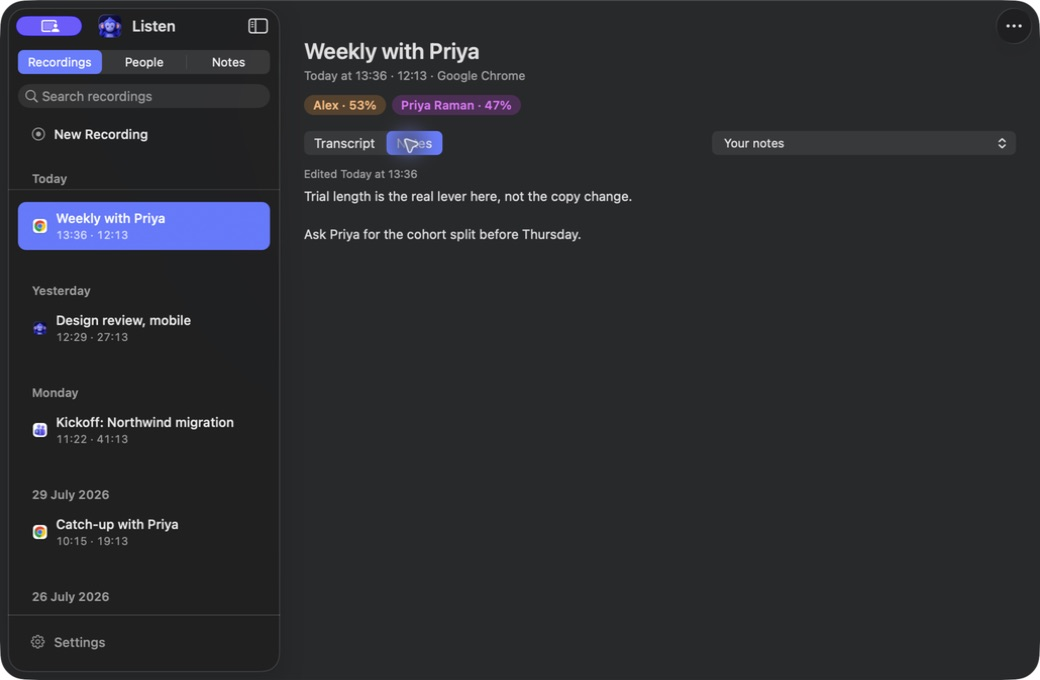
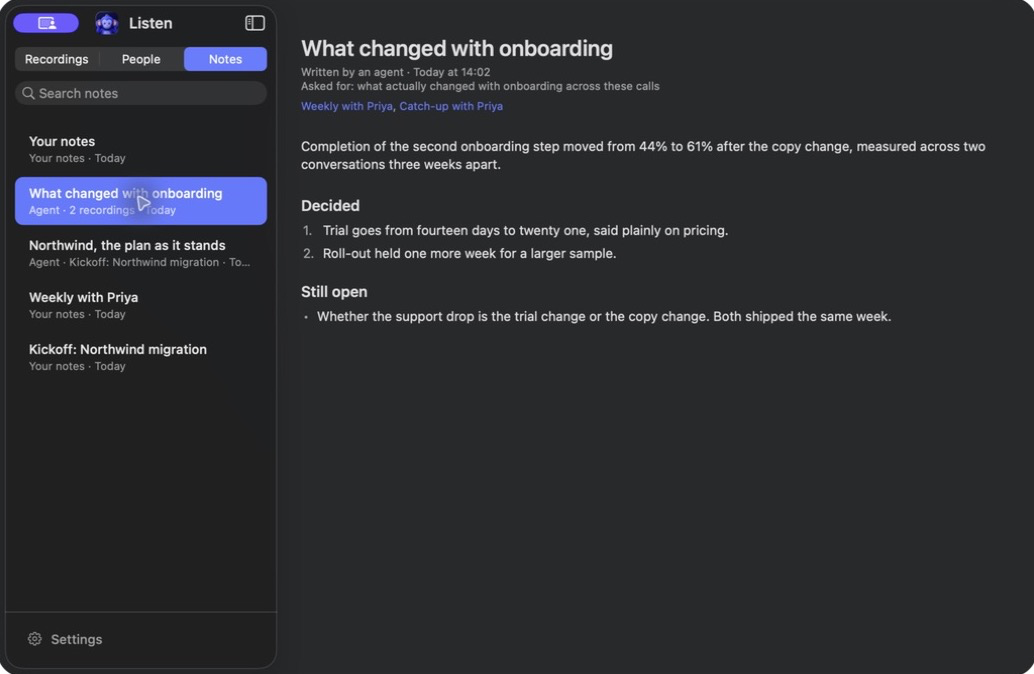
Show the Notes library in motion

diff --git a/docs/index.html b/docs/index.html
@@ -3,7 +3,7 @@
 <head>
 <meta charset="utf-8">
 <meta name="viewport" content="width=device-width, initial-scale=1">
-<title>Listen: remember the meeting, not the recorder</title>
+<title>Listen: a private memory for every meeting</title>
 <meta name="description" content="A private, local meeting memory for Mac. Capture both sides, know who said what, and keep the point of the call.">
 <link rel="icon" href="icon.png">
 <meta property="og:title" content="Listen">
@@ -14,7 +14,7 @@
 <meta property="og:image:width" content="1200">
 <meta property="og:image:height" content="630">
 <meta name="twitter:card" content="summary_large_image">
-<meta name="twitter:title" content="Listen: remember the meeting, not the recorder">
+<meta name="twitter:title" content="Listen: a private memory for every meeting">
 <meta name="twitter:description" content="A private, local meeting memory for Mac. No bot, no account, no upload.">
 <meta name="twitter:image" content="https://mugoosse.github.io/listen/social-preview.png">
 <style>
@@ -102,7 +102,7 @@ td:first-child { color: var(--text); width: 40%; padding-right: 16px; }
 
 <header>
   <img class="icon" src="icon.png" alt="Listen app icon">
-  <h1>Remember the meeting, not the recorder.</h1>
+  <h1>A private memory for every meeting.</h1>
   <p class="tagline">Listen keeps a private, searchable memory of who said
   what, what you noticed, and what needs to happen next.</p>
   <p class="claim">Entirely on your Mac. No bot, no account, nothing uploaded.</p>
@@ -179,9 +179,13 @@ td:first-child { color: var(--text); width: 40%; padding-right: 16px; }
   <p>Settings has the configuration ready to copy. There is no port, no account,
   and the app does not even need to be running.</p>
 
-  <img class="shot" src="notes-screenshot.png"
-       alt="Listen showing a personal meeting note alongside its recording.">
-  <p class="caption">A synthetic library: invented meetings, people and text.</p>
+  <picture class="demo-media">
+    <source media="(prefers-reduced-motion: no-preference)" srcset="notes.gif">
+    <img class="shot" src="notes-screenshot.png"
+         alt="Listen opening an agent-written summary that links two meetings.">
+  </picture>
+  <p class="caption">The Notes collection moving from a library of personal
+  notes and summaries into a cross-meeting write-up. Everything is synthetic.</p>
 </section>
 
 <section>
